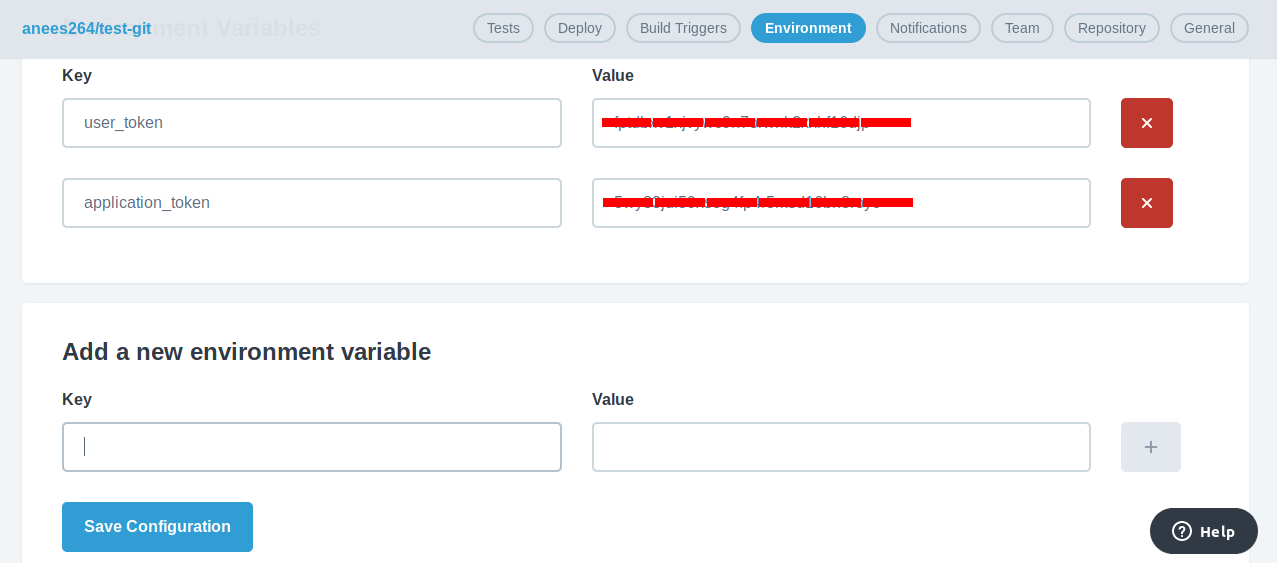
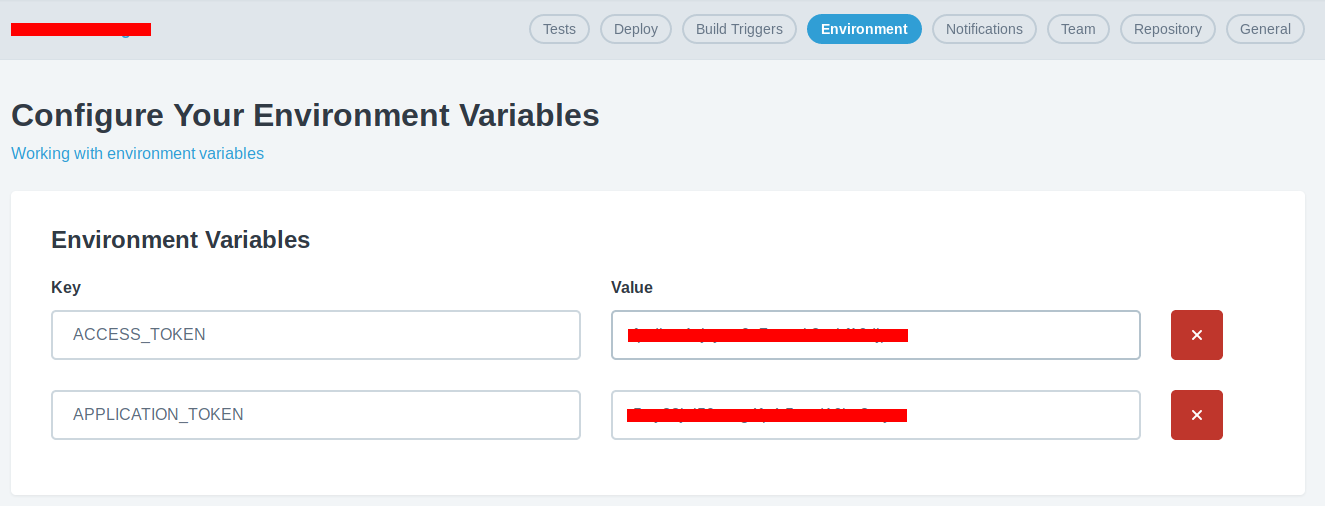
Readme update user token to access token

diff --git a/README.md b/README.md
@@ -6,10 +6,10 @@ This plugin can be used to trigger beagle penetration testing from Codeship
 ### Prerequisites
 
 * Obtain Application Token and User Token from Beagle Dashboard
-* Add the Environment variables "USER_TOKEN" and "APPLICATION_TOKEN" to Codeship.
+* Add the Environment variables "ACCESS_TOKEN" and "APPLICATION_TOKEN" to Codeship.
 
 
-### Generate your User Token From Beagle User Settings:
+### Generate your Access Token From Beagle User Settings:
   Settings -> Access token -> Generate your new personal access token
 
 ![Generate user token](https://beagle-assets.s3.ca-central-1.amazonaws.com/share/usertoken.png)
@@ -42,8 +42,8 @@ In-order to trigger beagle penetration testing you need to create two environmen
 5. Navigate to Environment
 	![Environment](/images/env2.png)
 6. Add tokens, make sure you use environment variable names as follows:
-	* For user token -> user_token
-	* For application token -> application_token
+	* For Access Token -> ACCESS_TOKEN
+	* For Application Token -> APPLICATION_TOKEN
 	* Final View 
 	![Step 3](/images/env3.png)
 	* Save Configuration
